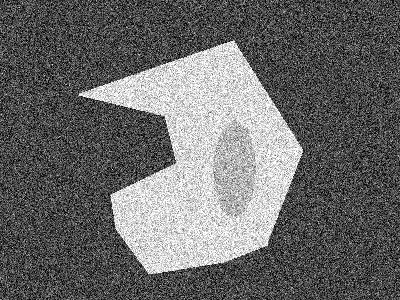
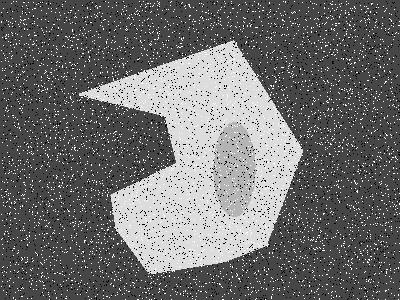
:boom:Добавлен арифметический и медианный фильтр

diff --git a/lab_EData/forms/py_forms/filter_window.py b/lab_EData/forms/py_forms/filter_window.py
@@ -3,14 +3,13 @@ from PyQt5 import QtCore, QtWidgets
 from model import Model
 from trend import Trend
 from setting import *
-from Image import filtration
+from image import filtration, arithmetic_filter_img, median_img
 
 
 class Ui_filter_window(object):
     def __init__(self, main_window):
         self.main_window = main_window
         self.filter_window = main_window.filter_window
-        # self.image = main_window.image
         self.filter_window.setObjectName("MainWindow")
         self.filter_window.resize(523, 461)
         self.centralwidget = QtWidgets.QWidget(self.filter_window)
@@ -127,6 +126,24 @@ class Ui_filter_window(object):
         self.line_2.setObjectName("line_2")
         self.gridLayout.addWidget(self.line_2, 0, 1, 13, 1)
 
+        self.label_9 = QtWidgets.QLabel(self.centralwidget)
+        self.label_9.setObjectName("label_9")
+        self.gridLayout.addWidget(self.label_9, 8, 2, 1, 1)
+
+        self.comboBox_4 = QtWidgets.QComboBox(self.centralwidget)
+        self.comboBox_4.setObjectName("comboBox_4")
+        ls_4 = ['Арифметический', 'Медианный']
+        self.comboBox_4.addItems(ls_4)
+        self.gridLayout.addWidget(self.comboBox_4, 9, 2, 1, 1)
+
+        self.label_10 = QtWidgets.QLabel(self.centralwidget)
+        self.label_10.setObjectName("label_10")
+        self.gridLayout.addWidget(self.label_10, 10, 2, 1, 1)
+
+        self.lineEdit_5 = QtWidgets.QLineEdit(self.centralwidget)
+        self.lineEdit_5.setObjectName("lineEdit_5")
+        self.gridLayout.addWidget(self.lineEdit_5, 11, 2, 1, 1)
+
         self.gridLayout_2.addLayout(self.gridLayout, 0, 0, 1, 4)
         self.pushButton_2 = QtWidgets.QPushButton(self.centralwidget)
         self.pushButton_2.setObjectName("pushButton_2")
@@ -157,6 +174,8 @@ class Ui_filter_window(object):
         self.radioButton_image.setText(_translate("MainWindow", "Изображение"))
         self.label_8.setText(_translate("MainWindow", "Объект фильтрации"))
         self.pushButton_2.setText(_translate("MainWindow", "Выполнить фильтрацию"))
+        self.label_9.setText(_translate("MainWindow", "Тип фильтра с маской"))
+        self.label_10.setText(_translate("MainWindow", "Размер маски"))
 
     def filtration(self):
         if self.radioButton_image.isChecked():
@@ -222,13 +241,41 @@ class Ui_filter_window(object):
 
             try:
                 position_img: int = int(self.comboBox.currentText())
-                img_path = POSITION_FOR_ANALYSIS.get(position_img)
+                img_path: str = POSITION_FOR_ANALYSIS.get(position_img)
             except:
                 error_dialog.showMessage('Не найдено изображение для фильтрации')
                 return
 
             filtration(img_path, filter_trend, place_to_show_image)
-            self.main_window.show_img(place_to_show_image)
+
+
+        else:
+            type_of_filter_with_mask: str = self.comboBox_4.currentText()
+            place_to_show_image: int = int(self.comboBox_2.currentText())
+            error_dialog: object = QtWidgets.QErrorMessage()
+
+            try:
+                n_of_maska: int = int(self.lineEdit_5.text())
+                if n_of_maska % 2 == 0:
+                    n_of_maska = n_of_maska + 1
+
+            except:
+                n_of_maska: int = 3
+
+            try:
+                position_img: int = int(self.comboBox.currentText())
+                img_path: str = POSITION_FOR_ANALYSIS.get(position_img)
+            except:
+                error_dialog.showMessage('Не найдено изображение для фильтрации')
+                return
+
+            if type_of_filter_with_mask == 'Арифметический':
+                arithmetic_filter_img(img_path, place_to_show_image, n_of_maska)
+
+            elif type_of_filter_with_mask == 'Медианный':
+                median_img(img_path, place_to_show_image, n_of_maska)
+
+        self.main_window.show_img(place_to_show_image)
 
         self.close_window()
 

diff --git a/lab_EData/image.py b/lab_EData/image.py
@@ -2,9 +2,10 @@ import math
 import array
 import os
 import random
+import cv2
 
 import numpy as np
-from PIL import Image, ImageDraw
+from PIL import Image, ImageDraw, ImageFilter
 from PyQt5 import QtWidgets
 from model import Model
 from model import convolution_img
@@ -19,7 +20,7 @@ def open_img(main_window) -> None:
 
     if path and flag_xcr == -1:
         pil_img = Image.open(path)
-        save(pil_img)
+        save_img(pil_img)
 
     elif path and flag_xcr != -1:
         count: int = int(os.stat(path).st_size / 2)
@@ -46,7 +47,7 @@ def open_img(main_window) -> None:
         POSITION_FOR_ANALYSIS[1] = PATH_IMG_TEMP_1
 
 
-def save(pillow_img, place_to_show: int = 1) -> None:
+def save_img(pillow_img, place_to_show: int = 1) -> None:
     if place_to_show == 1:
         pillow_img.save(PATH_IMG_TEMP_1)
         POSITION_FOR_ANALYSIS[place_to_show] = PATH_IMG_TEMP_1
@@ -174,7 +175,7 @@ def noise(type_of_noise, place_to_show_image, path_img: str, factor=0.3) -> None
                     else:
                         pil_draw.point((i, j), pixel)
 
-    save(pil_img, place_to_show_image)
+    save_img(pil_img, place_to_show_image)
 
 
 def negative(red: int, green: int, blue: int):
@@ -313,7 +314,7 @@ def image_processing(type_processing: str, path: str, place_to_show_image: int =
 
                 pil_draw.point((i, j), pixel)
 
-    save(pil_img, place_to_show_image)
+    save_img(pil_img, place_to_show_image)
 
 
 def bar_chart(path) -> object:
@@ -414,7 +415,7 @@ def filtration(path: str, my_filter: object, place_to_show: int = 1):
                 pixel = int(matrix[i][j])
                 pil_draw.point((i, j), pixel)
 
-    save(pil_img, place_to_show)
+    save_img(pil_img, place_to_show)
 
 
 def smoothing(path: str, type_smoothing: str, factor: float, place: int = 1) -> None:
@@ -433,4 +434,48 @@ def smoothing(path: str, type_smoothing: str, factor: float, place: int = 1) -> 
         p = pil_img.resize((new_width, new_height), Image.BILINEAR)
         pil_img = p
 
-    save(pil_img, place)
+    save_img(pil_img, place)
+
+
+def arithmetic_filter_img(path: str, place_to_save: int, n_of_maska: int) -> None:
+    pillow_img = Image.open(path)
+    pil_draw = ImageDraw.Draw(pillow_img)
+    width: int = pillow_img.size[0]
+    height: int = pillow_img.size[1]
+    pix = pillow_img.load()
+    for j in range(height):
+        for i in range(width):
+            all_value_pixel: int = 0
+            pixel_quantity: int = 0
+            loop: int = 0
+            average: int = 0
+            while loop < 2:
+
+                for k in range(j, j+n_of_maska):
+                    if k == height:
+                        break
+                    for s in range(i, i+n_of_maska):
+                        if s == width:
+                            break
+
+                        if loop == 0:
+                            pixel = pix[s, k]
+                            all_value_pixel += pixel
+                            pixel_quantity += 1
+
+                        else:
+                            pil_draw.point((s, k), average)
+
+                if pixel_quantity == 0:
+                    break
+
+                average = int(all_value_pixel / pixel_quantity)
+                loop += 1
+
+    save_img(pillow_img, place_to_save)
+
+
+def median_img(path: str, place_to_save: int, n_of_maska: int) -> None:
+    pillow_img = Image.open(path)
+    image_after_filter = pillow_img.filter(ImageFilter.MedianFilter(n_of_maska))
+    save_img(image_after_filter, place_to_save)

diff --git a/lab_EData/forms/py_forms/image_processing.py b/lab_EData/forms/py_forms/image_processing.py
@@ -2,7 +2,7 @@ from PyQt5 import QtCore, QtWidgets
 from PyQt5.QtWidgets import QMessageBox
 
 from setting import *
-from Image import zero_row, derivative, noise, image_processing, smoothing, bar_chart, cdf_function
+from image import zero_row, derivative, noise, image_processing, smoothing, bar_chart, cdf_function
 
 class image_processing_window(object):
     def __init__(self, main_window: object):

diff --git a/lab_EData/forms/py_forms/mainwindow.py b/lab_EData/forms/py_forms/mainwindow.py
@@ -8,7 +8,7 @@ from forms.py_forms.deconvolution_window import Ui_deconvolution_window
 from forms.py_forms.filter_window import Ui_filter_window
 from forms.py_forms.image_processing import image_processing_window
 from forms.py_forms.statistics_window import Ui_statistics
-from Image import open_img
+from image import open_img
 
 from setting import *
 

diff --git a/lab_EData/trend.py b/lab_EData/trend.py
@@ -1,8 +1,10 @@
 import random
 import struct
 import time
+import numpy as np
+import math
 
-from filter import *
+from filter import filter_potter, high_potter_filter, bandpass_filter, notch_filter
 
 
 class Trend:
